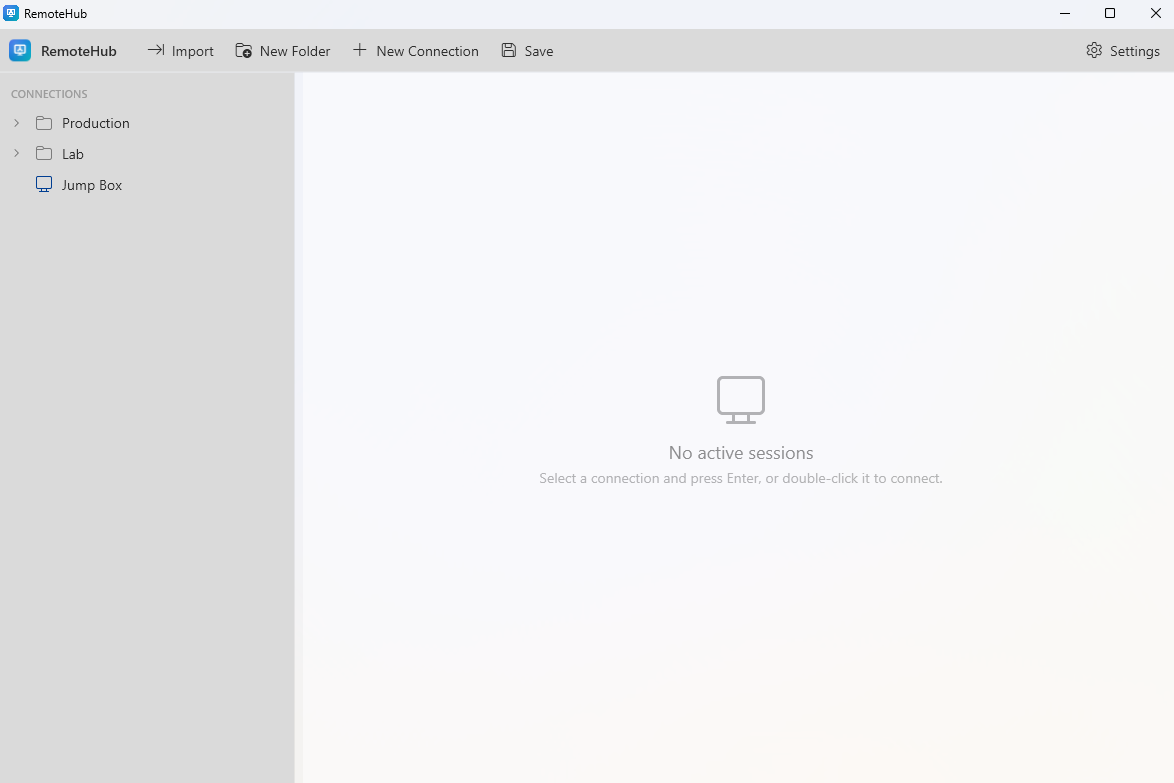
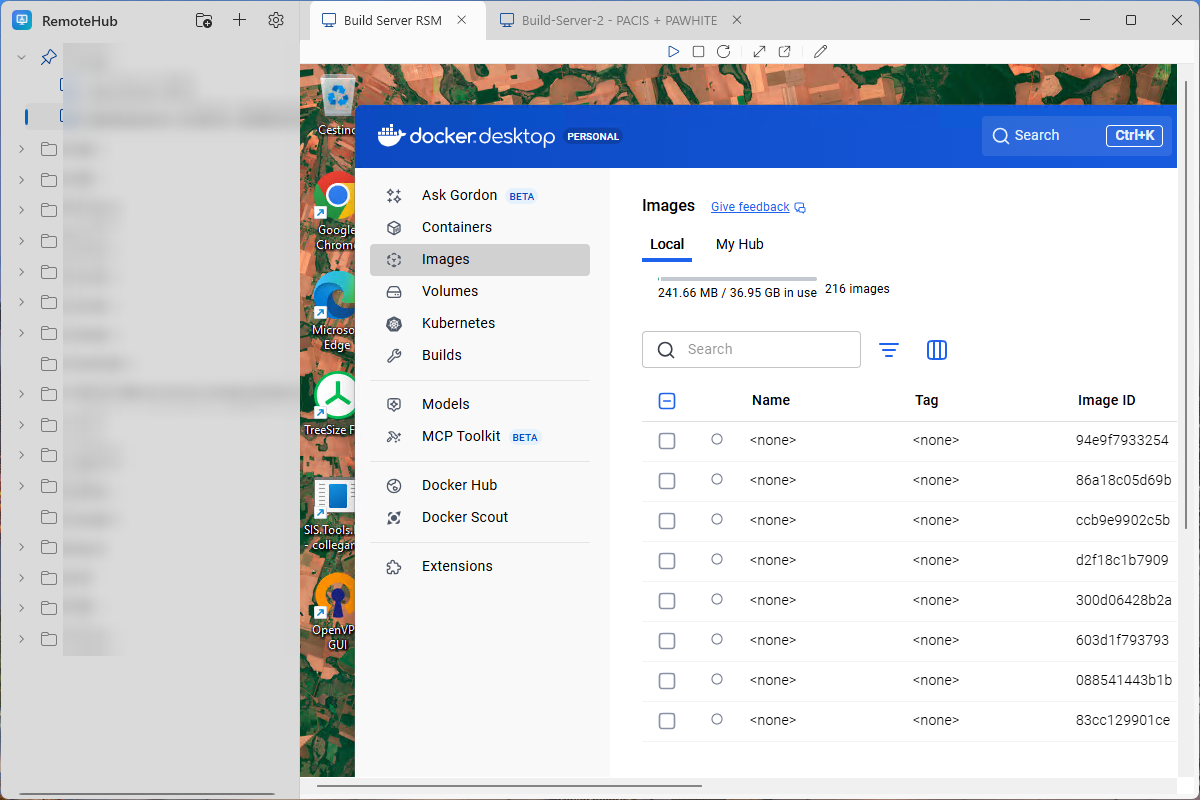
docs: rewrite the README for sysadmins; real screenshots
The README opened with architecture and spent most of its length on internals
(tech stack, interop, field-by-field import mapping) — useful to contributors,
but not to someone deciding whether to download it. Lead with what it does,
move the internals behind a link to docs/DEVELOPMENT.md, ~1100 -> ~800 words.

Kept the parts sysadmins actually weigh: the crypto specifics, that RDM
passwords are never imported, and the forget-your-master-password warning.
SmartScreen is explained plainly rather than defensively.

Replace the screenshots. The old pair showed a UI that no longer exists (the
pre-custom-chrome title bar and command strip) and an empty "No active
sessions" state; the new ones show two live sessions as tabs, in both themes,
with the connection tree blurred.

Dropped a claim I could not back: clipboard and audio redirection are wired
(RdpClientHost), drive redirection and multi-monitor are not.

diff --git a/README.md b/README.md
@@ -1,175 +1,110 @@
 # RemoteHub
 
-A lightweight, open-source WPF Remote Desktop (RDP) connection manager for Windows — a
-free alternative to Devolutions Remote Desktop Manager (RDM) for organizing and launching
-your RDP sessions.
+**All your RDP servers in one window, as tabs.** A free, open-source Remote Desktop manager for
+Windows — no account, no telemetry, no license nag.
 
-## Features
+![RemoteHub — two live sessions open as tabs](docs/images/screenshot-dark.png)
 
-- **Connection tree** — organize connections into nested folders with a familiar tree view.
-- **Tabbed embedded sessions** — open many connections at once, each as an independent live tab
-  hosting the native Windows Remote Desktop ActiveX control (`mstscax.dll` / MSTSC). Switching tabs
-  switches the active remote desktop; each session stays alive in the background.
-- **Pop-out sessions** — detach any session into its own standalone window.
-- **RDM XML import** — import connections from a Devolutions RDM XML export (including the standard
-  `<RDMExport>` wrapper). Only RDP entries are imported, and the folder tree is rebuilt from RDM
-  `Group` paths. **No passwords are ever read.**
-- **Master-password-protected credentials** — optionally save a password per connection, encrypted
-  with a master password (PBKDF2-SHA256 + AES-256-GCM). The app asks for the master password on
-  startup and auto-fills saved credentials at connect time.
-- **JSON storage** — connections and settings are stored as human-readable JSON, with a
-  configurable connections file path.
-- **Modern Fluent UI** — a Fluent command bar and connection tree, with Light, Dark, or System
-  theme via WPF's built-in Fluent theme.
+*(connection names blurred — that's a real tree)*
 
-## Screenshots
+## Why
 
-| Light | Dark |
-| --- | --- |
-| ![RemoteHub — light theme](docs/images/screenshot-light.png) | ![RemoteHub — dark theme](docs/images/screenshot-dark.png) |
+If you administer more than a handful of machines, plain `mstsc` means a taskbar full of identical
+windows and a folder full of `.rdp` files. The commercial managers solve that, but they're heavy,
+and the good parts are paywalled.
 
-The connection tree above was produced by importing [`docs/sample-rdm-export.xml`](docs/sample-rdm-export.xml).
+RemoteHub is the small version of that idea: a folder tree on the left, your sessions as tabs on the
+right, and nothing else in the way.
 
-## Requirements
+## What you get
 
-- [.NET 10 SDK](https://dotnet.microsoft.com/)
-- Windows (the app is `net10.0-windows`, x64, and depends on the Windows RDP ActiveX control)
+- **Everything in tabs.** Open as many servers as you like. **Switching tabs doesn't drop the
+  session** — each one keeps running in the background, exactly where you left it.
+- **A real connection tree.** Nested folders, pinned favourites at the top. Double-click (or select
+  and press Enter) to connect.
+- **Pop out any session** into its own window when you want it on a second monitor.
+- **It's the real thing.** Sessions run on the same Windows RDP engine `mstsc` uses, so they look
+  and behave exactly as you'd expect — clipboard and audio redirection included.
+- **Import your existing setup** from a Devolutions RDM export in one step.
+- **Passwords stay encrypted** behind a master password (AES-256-GCM). Optional — leave it off and
+  Windows prompts at connect time as usual.
+- **Updates itself.** New version shows a banner, one click, done.
+- **Free and MIT-licensed.** Your connections live in a plain JSON file you own — point it at
+  OneDrive or a share and it follows you between machines.
+- **Light or dark**, following your Windows theme:
 
-## Install & updates
+![RemoteHub in light theme](docs/images/screenshot-light.png)
 
-Download the Windows installer (`RemoteHub-*-Setup.exe`) from the
-[Releases page](https://github.com/adospace/remote-hub/releases) and run it. It is built with
-[Velopack](https://velopack.io) and is self-contained — no .NET runtime to install first. (Prefer to
-build from source? See [Build & Run](#build--run) below.)
+## Install
 
-**The app updates itself.** A few seconds after startup it checks the Releases page; when a newer
-version exists it downloads it in the background and shows an **update banner** across the bottom of
-the window offering **Restart to update**. One click and you're on the new version. You can dismiss
-the banner and keep working — it'll be back next launch.
+1. Grab the latest **`RemoteHub-*-Setup.exe`** from the
+   [**Releases page**](https://github.com/adospace/remote-hub/releases).
+2. Run it. That's the whole install — it's self-contained, so there's no .NET runtime to chase
+   first.
 
-> **SmartScreen: expected on first run.** The installer is **not code-signed** (this is a free,
-> open-source project without a certificate), so Windows shows *"Windows protected your PC"* /
-> *"Unknown publisher"* the first time you run it. Click **More info**, then **Run anyway**. This is
-> a consequence of the missing certificate, not a sign that anything is wrong.
+Windows 10/11, 64-bit.
 
-Packaging, the release workflow, and the update feed are documented in
-[`docs/DEPLOYMENT.md`](docs/DEPLOYMENT.md).
+> **You'll hit a SmartScreen warning the first time.** *"Windows protected your PC"* /
+> *"Unknown publisher"* → **More info** → **Run anyway**. The installer isn't code-signed, because a
+> signing certificate costs more per year than this project has ever cost anyone. It isn't a sign
+> anything's wrong — but don't take my word for it: the source is right here, and you can build it
+> yourself in two commands (below).
 
-## Build & Run
+## Coming from Remote Desktop Manager?
+
+**Settings → Import from RDM…**, point it at an RDM XML export, done. Your folder structure comes
+across as-is.
+
+**Passwords are deliberately not imported.** RemoteHub refuses to read the credential fields in an
+RDM export at all — you'll re-enter passwords for the connections you want saved. That's the
+tradeoff for not shipping an importer that quietly hoovers up your entire credential store.
+
+Export formats drift between RDM versions. If yours doesn't come across cleanly, open an issue with
+a sanitised sample — that's the fastest way to get it fixed.
+
+## About saved passwords
+
+Saving a password per connection is **optional**. Skip it and the RDP prompt asks at connect time,
+with username and domain pre-filled.
+
+If you do save them, set a master password in **Settings**. Passwords are encrypted with
+**AES-256-GCM**, the key derived via **PBKDF2-SHA256** (600k iterations). Only the encrypted blob is
+written to disk; the master password itself is never stored. You're asked for it once at startup.
+
+> **Forget the master password and the saved passwords are gone for good.** That's the design — no
+> backdoor, no recovery. Your connections (host, port, username) are untouched; only the saved
+> passwords are lost.
+
+## Where your stuff lives
+
+`%AppData%\RemoteHub\` — `connections.json` (your tree) and `settings.json`. Both plain, readable
+JSON. You can move the connections file anywhere from **Settings**, which is the easy way to sync it
+across machines.
+
+Something misbehaving? There's a log at `%AppData%\RemoteHub\logs\`, and errors surface as a dialog
+rather than a silent failure. A connection that won't open is usually just the host being
+unreachable (VPN down, firewall) — you'll get a **Disconnected** state with the reason.
+
+## Build it yourself
+
+Needs the [.NET 10 SDK](https://dotnet.microsoft.com/):
 
 ```
 dotnet build RemoteHub.sln -c Debug
 dotnet run --project src/RemoteHub
 ```
 
-Run the tests with:
+## On the list
 
-```
-dotnet test
-```
+- Drag-and-drop reordering, duplicate connection, and search in the tree
+- Per-connection "always ask for password", plus idle auto-lock of the vault
+- Display / multi-monitor options in the connection editor
+- Code signing, to put the SmartScreen prompt to rest
 
-## How import works
+Issues and PRs welcome. If RemoteHub saves you some clicks, a ⭐ genuinely helps other people find
+it.
 
-Use **Import from RDM…** and point it at an RDM XML export. A representative sample lives at
-[`docs/sample-rdm-export.xml`](docs/sample-rdm-export.xml) so you can try importing right away.
-
-The importer:
-
-- Accepts the real RDM export shape (`<RDMExport><Connections><Connection>…`) as well as flatter
-  variants, matching element names case-insensitively.
-- Reads only RDP entries (`ConnectionType` of `RDPConfigured` or `RDP`); other types (TeamViewer,
-  SSH, …) are skipped, while explicit `Group` entries still become folders.
-- Rebuilds the folder tree from the backslash-separated RDM `Group` path
-  (e.g. `Production\Web Servers`).
-- Maps host (incl. inline `:port`), port, username, domain, and description — reading credentials
-  from the nested `<RDP>` element — and tolerates format differences across RDM versions.
-
-> **Heads-up:** users sometimes type passwords into a connection's *name* or *description* in RDM.
-> Those are ordinary text fields and import verbatim (visible in the tree). The importer only refuses
-> to read RDM's actual credential fields (`Password`/`SafePassword`).
-
-RDM export formats vary between versions. If import misses something from your real export,
-please share a (sanitized) sample so the field mapping can be refined.
-
-## Security
-
-**Passwords are never imported from RDM.** The importer explicitly ignores any `Password` /
-`SafePassword` / `Credential*` values in the RDM export.
-
-**Saved passwords are encrypted with a master password.** Storing a connection password is
-optional. When you set a master password (in **Settings**):
-
-- A key is derived from it with **PBKDF2-SHA256** (600,000 iterations, per-vault random salt).
-- Each saved password is encrypted with **AES-256-GCM** (authenticated encryption) and stored only
-  as an opaque token in the JSON — never in plaintext.
-- The master password itself is **never stored**. A small "verifier" token lets the app check the
-  master password is correct without being able to recover it.
-- The app prompts for the master password on startup and holds the derived key in memory only while
-  running. You can **change** or **remove** the master password in Settings (changing re-encrypts
-  all saved passwords; removing deletes them).
-
-> **If you forget the master password, saved passwords cannot be recovered** — this is by design.
-> Connections themselves (host, port, username) remain readable; only the encrypted passwords are lost.
-
-When a connection has no saved password, the embedded RDP control prompts for credentials at connect
-time (via CredSSP); username and domain are pre-filled as a convenience.
-
-## Configuration
-
-By default, files live under `%AppData%\RemoteHub`:
-
-- `settings.json` — theme preference, window size, and the connections file path.
-- `connections.json` — your folders and connections.
-
-The connections file path is configurable in **Settings…** (with a Browse button), so you can
-point RemoteHub at a file in OneDrive, a shared drive, or a repo.
-
-## Troubleshooting
-
-RemoteHub writes a log to `%AppData%\RemoteHub\logs\remotehub-YYYYMMDD.log`, and an unexpected error
-shows a dialog instead of failing silently. If something goes wrong (a connection won't open, a
-crash), check that log first. Note that connecting still requires the target host to be reachable
-(VPN up, firewall open); a failed connect shows a **Disconnected** state with a reason.
-
-## Tech stack
-
-- .NET 10, WPF (`net10.0-windows`), Windows Forms interop for the RDP host control
-- MVVM via [CommunityToolkit.Mvvm](https://github.com/CommunityToolkit/dotnet)
-- Dependency injection via `Microsoft.Extensions.DependencyInjection`
-- `System.Text.Json` for polymorphic connection serialization
-- WPF built-in Fluent theme (`Application.ThemeMode`)
-- xUnit for tests
-
-The RDP ActiveX control is hosted through a hand-written `AxHost` subclass driven by late-bound
-`dynamic` dispatch — no `COMReference` or generated interop assembly is used, so the solution
-builds cleanly with `dotnet build`.
-
-## Development
-
-See **[`docs/DEVELOPMENT.md`](docs/DEVELOPMENT.md)** for the architecture, subsystem walkthrough,
-the non-obvious constraints around hosting the RDP ActiveX control, and how changes are verified.
-(`CLAUDE.md` at the repo root is a condensed version auto-loaded by Claude Code sessions.)
-
-```
-dotnet build RemoteHub.sln -c Debug
-dotnet test
-dotnet run --project src/RemoteHub
-```
-
-## Roadmap
-
-Some of the next things on the list (see `docs/DEVELOPMENT.md` for the full set):
-
-- Drag-and-drop reordering, connection duplication, and tree search.
-- Per-connection "always prompt for password" and idle auto-lock of the vault.
-- Display/multi-monitor options in the connection editor.
-- Code signing for the installer, to clear the SmartScreen prompt.
-
-## Contributing
-
-Contributions are welcome. Please open an issue or pull request. Sharing real (sanitized) RDM
-exports is especially helpful for improving import coverage. Keep commits focused and run
-`dotnet build` and `dotnet test` before submitting.
+Curious how it works inside, or want to hack on it? → [`docs/DEVELOPMENT.md`](docs/DEVELOPMENT.md)
 
 ## License
 
